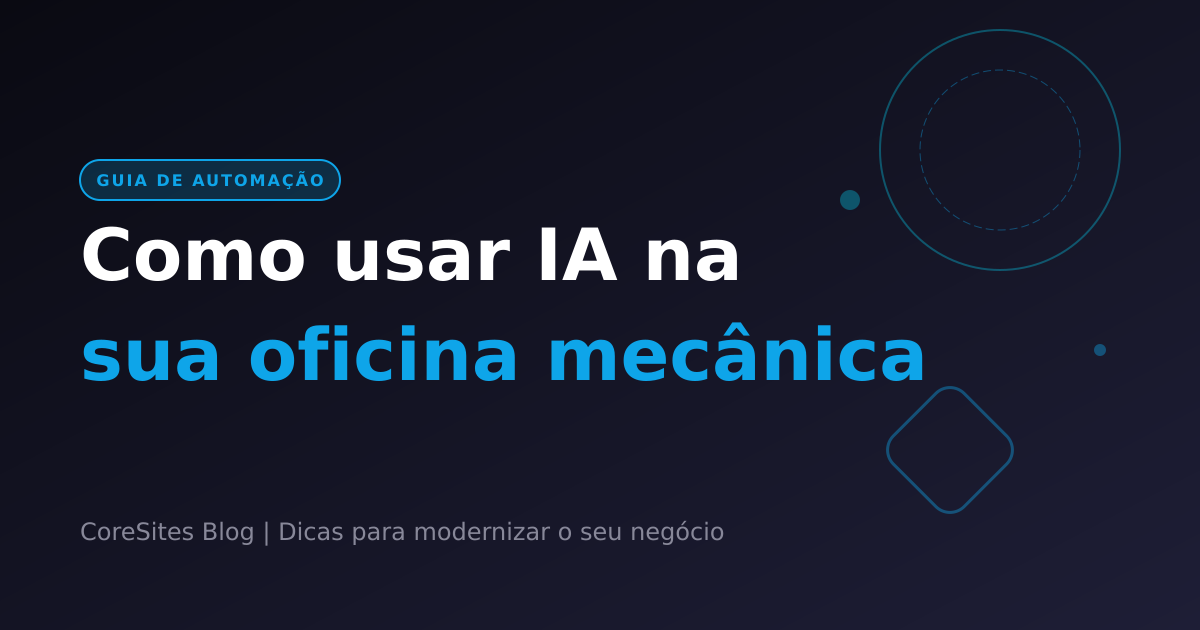
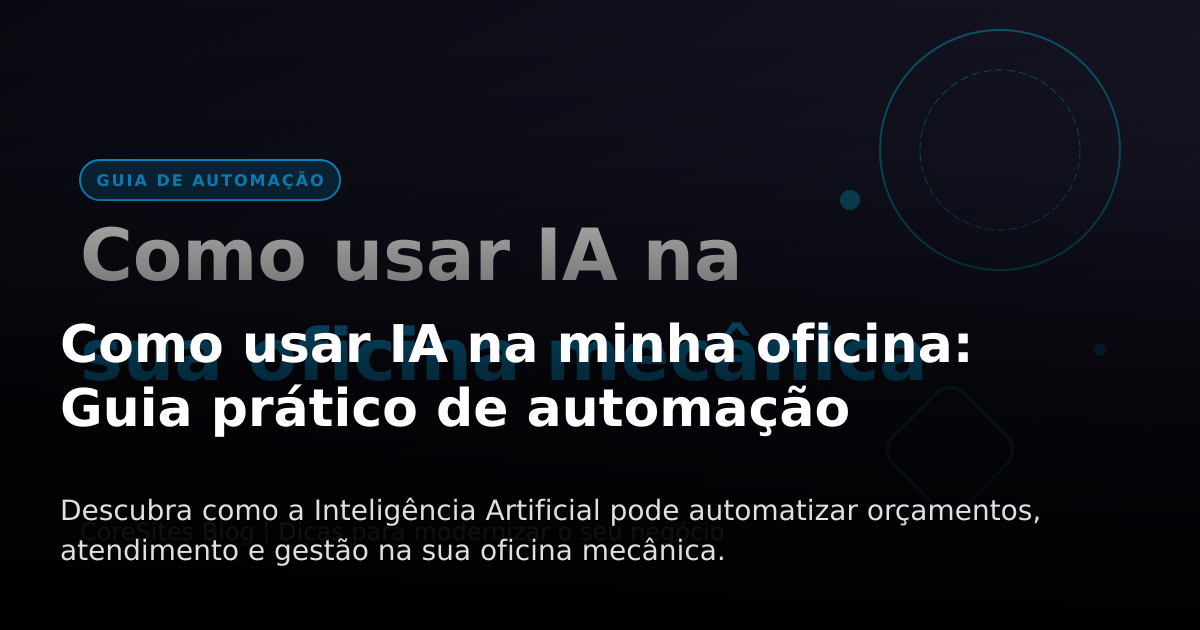
publish: atualização de conteúdo e build

diff --git a/scripts/test-og.ts b/scripts/test-og.ts
@@ -1,0 +1,117 @@
+import fs from 'node:fs'
+import path from 'node:path'
+import sharp from 'sharp'
+import matter from 'gray-matter'
+
+const postSlug = 'por-que-crms-oficina-falham'
+
+async function runTest() {
+  const rootPostPath = path.join(process.cwd(), '..', 'content', 'posts', `${postSlug}.md`)
+  const corePostPath = path.join(process.cwd(), 'content', 'posts', `${postSlug}.md`)
+  const postPath = fs.existsSync(rootPostPath) ? rootPostPath : corePostPath
+
+  if (!fs.existsSync(postPath)) {
+    console.error('Post não encontrado:', postPath)
+    return
+  }
+
+  const raw = fs.readFileSync(postPath, 'utf-8')
+  const parsed = matter(raw)
+  const title = parsed.data.title || 'Sem título'
+  const excerpt = parsed.data.excerpt || ''
+  const coverImage = parsed.data.cover_image
+
+  if (!coverImage) {
+    console.error('Sem cover_image no frontmatter')
+    return
+  }
+
+  const svgFilename = path.basename(coverImage)
+  const rootImgPath = path.join(process.cwd(), '..', 'public', 'images', 'posts', svgFilename)
+  const coreImgPath = path.join(process.cwd(), 'public', 'images', 'posts', svgFilename)
+  const imgPath = fs.existsSync(rootImgPath) ? rootImgPath : coreImgPath
+
+  if (!fs.existsSync(imgPath)) {
+    console.error('SVG não encontrado:', imgPath)
+    return
+  }
+
+  // Função simples para quebrar linhas
+  function wrapText(text: string, maxChars: number) {
+    const words = text.split(' ')
+    const lines = []
+    let currentLine = ''
+    for (const word of words) {
+      if ((currentLine + word).length > maxChars) {
+        if (currentLine) lines.push(currentLine.trim())
+        currentLine = word + ' '
+      } else {
+        currentLine += word + ' '
+      }
+    }
+    if (currentLine) lines.push(currentLine.trim())
+    return lines
+  }
+
+  // Reduzimos o limite de caracteres por linha para evitar transbordo horizontal (Width 1200 - margins)
+  const titleLines = wrapText(title, 32) 
+  const excerptLines = wrapText(excerpt, 68).slice(0, 3) // Permite até 3 linhas no resumo
+  
+  const titleLineHeight = 64
+  const excerptLineHeight = 40
+  
+  const totalExcerptHeight = excerptLines.length * excerptLineHeight
+  const excerptStartY = 600 - totalExcerptHeight
+
+  const totalTitleHeight = titleLines.length * titleLineHeight
+  const titleStartY = excerptStartY - totalTitleHeight - 30
+
+  let textSvg = `
+  <svg width="1200" height="630" xmlns="http://www.w3.org/2000/svg">
+    <defs>
+      <linearGradient id="grad" x1="0" y1="0" x2="0" y2="1">
+        <stop offset="0%" stop-color="black" stop-opacity="0.0"/>
+        <stop offset="25%" stop-color="black" stop-opacity="0.2"/>
+        <stop offset="60%" stop-color="black" stop-opacity="0.75"/>
+        <stop offset="100%" stop-color="black" stop-opacity="0.95"/>
+      </linearGradient>
+    </defs>
+    <rect x="0" y="0" width="1200" height="630" fill="url(#grad)" />
+  `
+  
+  let currY = titleStartY
+  for (const line of titleLines) {
+    textSvg += `\n<text x="60" y="${currY}" font-family="sans-serif" font-weight="bold" font-size="52" fill="#ffffff">${line}</text>`
+    currY += titleLineHeight
+  }
+
+  currY = excerptStartY
+  for (const line of excerptLines) {
+    textSvg += `\n<text x="60" y="${currY}" font-family="sans-serif" font-size="28" fill="#e0e0e0">${line}</text>`
+    currY += excerptLineHeight
+  }
+
+  textSvg += `\n</svg>`
+
+  const outPath = path.join(process.cwd(), 'test-og3.png')
+
+  try {
+    const baseImage = await sharp(imgPath, { density: 300 })
+      .resize(1200, 630, { 
+        fit: 'cover',
+        background: { r: 0, g: 0, b: 0, alpha: 1 } 
+      })
+      .toBuffer()
+
+    await sharp(baseImage)
+      .composite([{ input: Buffer.from(textSvg), blend: 'over' }])
+      .png()
+      .toFile(outPath)
+
+    console.log(`✅ Teste 3 concluído! Salvo em: ${outPath}`)
+  } catch (err) {
+    console.error('❌ Erro:', err)
+  }
+}
+
+runTest()

diff --git a/scripts/generate-og-images.ts b/scripts/generate-og-images.ts
@@ -1,9 +1,48 @@
 import fs from 'node:fs'
 import path from 'node:path'
 import sharp from 'sharp'
+import matter from 'gray-matter'
 
 const POST_IMAGES_DIR_CORE = path.join(process.cwd(), 'public', 'images', 'posts')
 const POST_IMAGES_DIR_ROOT = path.join(process.cwd(), '..', 'public', 'images', 'posts')
+
+function wrapText(text: string, maxChars: number) {
+  const words = text.split(' ')
+  const lines = []
+  let currentLine = ''
+  for (const word of words) {
+    if ((currentLine + word).length > maxChars) {
+      if (currentLine) lines.push(currentLine.trim())
+      currentLine = word + ' '
+    } else {
+      currentLine += word + ' '
+    }
+  }
+  if (currentLine) lines.push(currentLine.trim())
+  return lines
+}
+
+// Encontra o markdown baseado no nome da imagem
+function findPostFrontmatter(svgFilename: string) {
+  const slug = svgFilename.replace(/\.svg$/, '')
+  const rootPostPath = path.join(process.cwd(), '..', 'content', 'posts', `${slug}.md`)
+  const corePostPath = path.join(process.cwd(), 'content', 'posts', `${slug}.md`)
+  
+  const postPath = fs.existsSync(rootPostPath) ? rootPostPath : (fs.existsSync(corePostPath) ? corePostPath : '')
+  
+  if (!postPath) return null
+
+  try {
+    const raw = fs.readFileSync(postPath, 'utf-8')
+    const parsed = matter(raw)
+    return {
+      title: parsed.data.title || slug,
+      excerpt: parsed.data.excerpt || ''
+    }
+  } catch {
+    return null
+  }
+}
 
 async function generatePngFromSvg() {
   const dirs = [POST_IMAGES_DIR_CORE, POST_IMAGES_DIR_ROOT]
@@ -17,7 +56,7 @@ async function generatePngFromSvg() {
     const svgFiles = files.filter(f => f.endsWith('.svg'))
 
     if (svgFiles.length > 0) {
-      console.log(`[OG Images] Encontrados ${svgFiles.length} arquivos .svg em ${dir}. Iniciando conversão...`)
+      console.log(`[OG Images] Encontrados ${svgFiles.length} arquivos .svg em ${dir}. Iniciando conversão com tipografia injetada...`)
 
       for (const file of svgFiles) {
         const svgPath = path.join(dir, file)
@@ -25,15 +64,66 @@ async function generatePngFromSvg() {
         const pngPath = path.join(dir, pngFilename)
 
         try {
-          await sharp(svgPath, { density: 300 })
+          const baseImage = await sharp(svgPath, { density: 300 })
             .resize(1200, 630, { 
-              fit: 'contain',
-              background: { r: 255, g: 255, b: 255, alpha: 1 } 
+              fit: 'cover',
+              background: { r: 0, g: 0, b: 0, alpha: 1 } 
             })
-            .png()
-            .toFile(pngPath)
+            .toBuffer()
 
-          console.log(`✅ Convertido: ${file} -> ${pngFilename}`)
+          const frontmatter = findPostFrontmatter(file)
+          
+          if (frontmatter) {
+            const titleLines = wrapText(frontmatter.title, 32)
+            const excerptLines = wrapText(frontmatter.excerpt, 68).slice(0, 3)
+
+            const titleLineHeight = 64
+            const excerptLineHeight = 40
+            
+            const totalExcerptHeight = excerptLines.length * excerptLineHeight
+            const excerptStartY = 600 - totalExcerptHeight
+
+            const totalTitleHeight = titleLines.length * titleLineHeight
+            const titleStartY = excerptStartY - totalTitleHeight - 30
+
+            let textSvg = `
+            <svg width="1200" height="630" xmlns="http://www.w3.org/2000/svg">
+              <defs>
+                <linearGradient id="grad" x1="0" y1="0" x2="0" y2="1">
+                  <stop offset="0%" stop-color="black" stop-opacity="0.0"/>
+                  <stop offset="25%" stop-color="black" stop-opacity="0.2"/>
+                  <stop offset="60%" stop-color="black" stop-opacity="0.75"/>
+                  <stop offset="100%" stop-color="black" stop-opacity="0.95"/>
+                </linearGradient>
+              </defs>
+              <rect x="0" y="0" width="1200" height="630" fill="url(#grad)" />
+            `
+            
+            let currY = titleStartY
+            for (const line of titleLines) {
+              textSvg += `\n<text x="60" y="${currY}" font-family="sans-serif" font-weight="bold" font-size="52" fill="#ffffff">${line}</text>`
+              currY += titleLineHeight
+            }
+
+            currY = excerptStartY
+            for (const line of excerptLines) {
+              textSvg += `\n<text x="60" y="${currY}" font-family="sans-serif" font-size="28" fill="#e0e0e0">${line}</text>`
+              currY += excerptLineHeight
+            }
+
+            textSvg += `\n</svg>`
+
+            await sharp(baseImage)
+              .composite([{ input: Buffer.from(textSvg), blend: 'over' }])
+              .png()
+              .toFile(pngPath)
+
+          } else {
+            // Fallback: se não encontrar o post, apenas gera a imagem sem texto
+            await sharp(baseImage).png().toFile(pngPath)
+          }
+
+          console.log(`✅ Convertido e injetado: ${file} -> ${pngFilename}`)
         } catch (err) {
           console.error(`❌ Erro ao converter ${file}:`, err)
         }

diff --git a/scripts/unmark-published.ts b/scripts/unmark-published.ts
@@ -5,11 +5,7 @@ import matter from 'gray-matter'
 const postsDir = path.join(process.cwd(), '..', 'content', 'posts')
 const files = fs.readdirSync(postsDir).filter(f => f.endsWith('.md'))
 
-const keepPublished = ['por-que-crms-oficina-falham.md', 'abandono-erp-migracao-whatsapp.md']
-
 for (const file of files) {
-  if (keepPublished.includes(file)) continue;
-
   const filePath = path.join(postsDir, file)
   const content = fs.readFileSync(filePath, 'utf-8')
   const parsed = matter(content)
@@ -17,6 +13,6 @@ for (const file of files) {
   if (parsed.data.social_published) {
     delete parsed.data.social_published; // Remove a marcação
     fs.writeFileSync(filePath, matter.stringify(parsed.content, parsed.data))
-    console.log(`Desmarcado ${file} para ser publicado.`)
+    console.log(`Desmarcado ${file} para ser republicado.`)
   }
 }